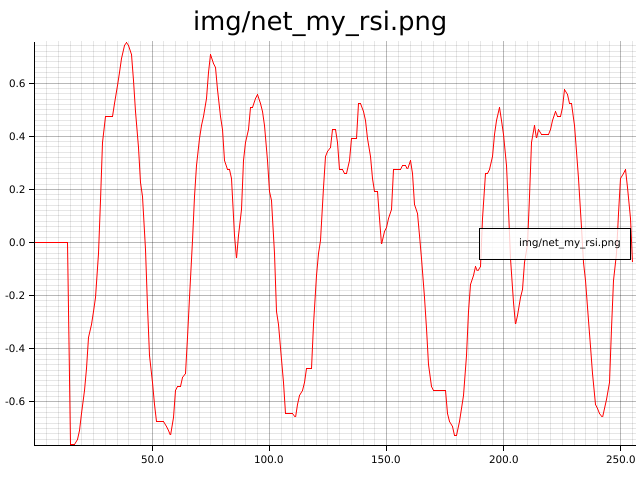
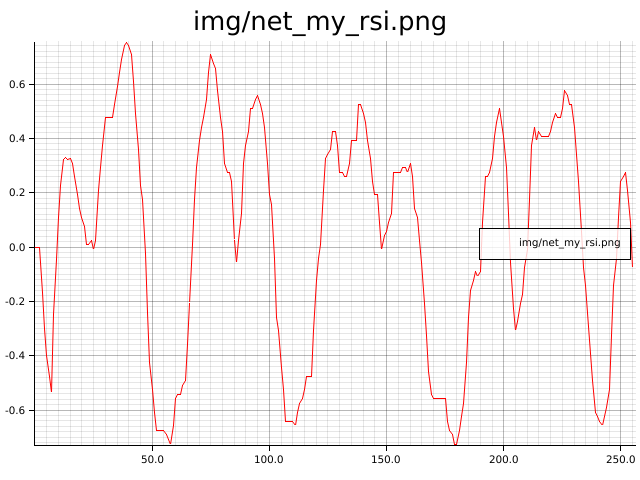
added WelfordOnlineSliding for a sliding window estimation of std_dev where possible, output the indicator values as soon as possible rather than waiting until window is completely filled

Changed region(s): [[0.0, 0.125, 1.0, 0.9375]]

diff --git a/src/welford_online_sliding.rs b/src/welford_online_sliding.rs
@@ -1,0 +1,118 @@
+use crate::sliding_window::View;
+use crate::Echo;
+use std::collections::VecDeque;
+
+/// Welford online algorithm for computing mean and variance on-the-fly
+/// over a sliding window
+#[derive(Clone)]
+pub struct WelfordOnlineSliding {
+    view: Box<dyn View>,
+    window_len: usize,
+    q_vals: VecDeque<f64>,
+    mean: f64,
+    s: f64,
+    n: usize,
+}
+
+impl WelfordOnlineSliding {
+    /// Create a WelfordOnline struct with a chained View
+    pub fn new(view: Box<dyn View>, window_len: usize) -> Self {
+        Self {
+            view,
+            window_len,
+            q_vals: VecDeque::new(),
+            mean: 0.0,
+            s: 0.0,
+            n: 0,
+        }
+    }
+
+    /// Create a new WelfordOnline Sliding Window without a chained View
+    pub fn new_final(window_len: usize) -> Self {
+        Self::new(Box::new(Echo::new()), window_len)
+    }
+
+    /// Return the variance of the sliding window
+    pub fn variance(&self) -> f64 {
+        return if self.n > 1 {
+            self.s / (self.n as f64 - 1.0)
+        } else {
+            0.0
+        };
+    }
+
+    /// Return the mean of the sliding window
+    pub fn mean(&self) -> f64 {
+        self.mean
+    }
+}
+
+impl View for WelfordOnlineSliding {
+    fn update(&mut self, val: f64) {
+        self.view.update(val);
+        let val = self.view.last();
+
+        if self.q_vals.len() >= self.window_len {
+            let old_val: f64 = self.q_vals.pop_front().unwrap();
+            // remove old value from estimation
+            let new_mean = (self.n as f64 * self.mean - old_val) / (self.n as f64 - 1.0);
+            self.s -= (old_val - self.mean) * (old_val - new_mean);
+            self.mean = new_mean;
+            self.n -= 1;
+        }
+        self.q_vals.push_back(val);
+
+        self.n += 1;
+        let old_mean = self.mean;
+        self.mean += (val - old_mean) / self.n as f64;
+        self.s += (val - old_mean) * (val - self.mean);
+    }
+
+    fn last(&self) -> f64 {
+        let std_dev = self.variance().sqrt();
+        std_dev
+    }
+}
+
+#[cfg(test)]
+mod tests {
+    use super::*;
+    use crate::test_data::TEST_DATA;
+    use round::round;
+    use crate::plot::plot_values;
+
+    #[test]
+    fn welford_online_sliding() {
+        let mut wo = WelfordOnlineSliding::new_final(TEST_DATA.len());
+        for v in &TEST_DATA {
+            wo.update(*v);
+            assert!(!wo.last().is_nan());
+        }
+        let w_std_dev = wo.last();
+
+        // compute the standard deviation with the regular formula
+        let avg: f64 = TEST_DATA.iter().sum::<f64>() / TEST_DATA.len() as f64;
+        let std_dev: f64 = ((1.0 / (TEST_DATA.len() as f64 - 1.0))
+            * TEST_DATA.iter().map(|v| (v - avg).powi(2)).sum::<f64>())
+            .sqrt();
+
+        assert_eq!(round(w_std_dev, 4), round(std_dev, 4));
+    }
+
+    #[test]
+    fn welford_online_sliding_2() {
+        // TODO:
+    }
+
+    #[test]
+    fn welford_online_sliding_plot() {
+        let mut wo = WelfordOnlineSliding::new_final(16);
+        let mut out: Vec<f64> = vec![];
+        for v in &TEST_DATA {
+            wo.update(*v);
+            out.push(wo.last());
+        }
+        let filename = "img/welford_online_sliding.png";
+        plot_values(out, filename).unwrap();
+    }
+}

diff --git a/src/net.rs b/src/net.rs
@@ -38,26 +38,30 @@ impl View for NET {
         }
         self.q_vals.push_back(val);
 
-        if self.q_vals.len() == self.window_len {
-            let mut x: Vec<f64> = vec![0.0; self.window_len];
-            let mut y: Vec<f64> = vec![0.0; self.window_len];
-            for count in 1..self.window_len {
-                x[count] = *self.q_vals.get(self.window_len - count).unwrap();
-                y[count] = - (count as f64);
-            }
-
-            let mut num: f64 = 0.0;
-            for count in 2..self.window_len {
-                for k in 1..count - 1 {
-                    num -= (x[count] - x[k]).signum();
-                }
-            }
-
-            let denom: f64 = 0.5 * self.window_len as f64 * (self.window_len as f64 - 1.0);
-            self.out = num / denom;
-        } else {
-            self.out = val;
+        // if self.q_vals.len() == self.window_len {
+        //
+        // } else {
+        //     self.out = val;
+        // }
+        if self.q_vals.len() < 2 {
+            return
         }
+        let mut x: Vec<f64> = vec![0.0; self.q_vals.len()];
+        let mut y: Vec<f64> = vec![0.0; self.q_vals.len()];
+        for count in 1..self.q_vals.len() {
+            x[count] = *self.q_vals.get(self.q_vals.len() - count).unwrap();
+            y[count] = - (count as f64);
+        }
+
+        let mut num: f64 = 0.0;
+        for count in 2..self.q_vals.len() {
+            for k in 1..count - 1 {
+                num -= (x[count] - x[k]).signum();
+            }
+        }
+
+        let denom: f64 = 0.5 * self.q_vals.len() as f64 * (self.q_vals.len() as f64 - 1.0);
+        self.out = num / denom;
     }
 
     fn last(&self) -> f64 {

diff --git a/src/center_of_gravity.rs b/src/center_of_gravity.rs
@@ -42,23 +42,19 @@ impl View for CenterOfGravity {
         }
         self.q_vals.push_back(val);
 
-        if self.q_vals.len() < self.window_len {
-            self.out = 0.0;
+        let mut denom: f64 = 0.0;
+        let mut num: f64 = 0.0;
+        let q_len = self.q_vals.len();
+        for i in 0..q_len {
+            let weight = q_len - i;
+            let val_i = self.q_vals.get(i).unwrap();
+            num += weight as f64 * val_i;
+            denom += *val_i;
+        }
+        if denom != 0.0 {
+            self.out = -num / denom + (self.q_vals.len() as f64 + 1.0) / 2.0
         } else {
-            let mut denom: f64 = 0.0;
-            let mut num: f64 = 0.0;
-            let q_len = self.q_vals.len();
-            for i in 0..q_len {
-                let weight = q_len - i;
-                let val_i = self.q_vals.get(i).unwrap();
-                num += weight as f64 * val_i;
-                denom += *val_i;
-            }
-            if denom != 0.0 {
-                self.out = -num / denom + (self.window_len as f64 + 1.0) / 2.0
-            } else {
-                self.out = 0.0;
-            }
+            self.out = 0.0;
         }
     }
     fn last(&self) -> f64 {

diff --git a/src/vsct.rs b/src/vsct.rs
@@ -1,11 +1,10 @@
-use crate::{Echo, View, WelfordOnline};
+use crate::{Echo, View, WelfordOnlineSliding};
 
 /// Variance Stabilizing Centering Transform Sliding Window
 #[derive(Clone)]
 pub struct VSCT {
     view: Box<dyn View>,
-    window_len: usize,
-    welford_online: WelfordOnline,
+    welford_online: WelfordOnlineSliding,
     last: f64,
 }
 
@@ -15,8 +14,7 @@ impl VSCT {
     pub fn new(view: Box<dyn View>, window_len: usize) -> Self {
         VSCT {
             view,
-            window_len,
-            welford_online: WelfordOnline::new_final(),
+            welford_online: WelfordOnlineSliding::new_final(window_len),
             last: 0.0,
         }
     }
@@ -30,9 +28,10 @@ impl VSCT {
 impl View for VSCT {
     fn update(&mut self, val: f64) {
         self.view.update(val);
-        let view_last = self.view.last();
-        self.welford_online.update(view_last);
-        self.last = view_last;
+        let val = self.view.last();
+
+        self.welford_online.update(val);
+        self.last = val;
     }
 
     fn last(&self) -> f64 {

diff --git a/src/re_flex.rs b/src/re_flex.rs
@@ -43,7 +43,7 @@ impl View for ReFlex {
         if self.q_vals.len() == 0 {
             self.last_val = val;
         }
-        if self.q_vals.len() > self.window_len {
+        if self.q_vals.len() >= self.window_len {
             self.q_vals.pop_front();
         }
         let a1 = 8.88442402435 / self.window_len as f64;
@@ -79,12 +79,8 @@ impl View for ReFlex {
         // normalize in termsn of standard deviation
         let ms0 = 0.04 * d_sum.powi(2) + 0.96 * self.last_m;
         self.last_m = ms0;
-        if self.q_vals.len() < self.window_len {
-            self.out = 0.0;
-        } else {
-            if ms0 > 0.0 {
-                self.out = d_sum / ms0.sqrt();
-            }
+        if ms0 > 0.0 {
+            self.out = d_sum / ms0.sqrt();
         }
     }
 

diff --git a/src/lib.rs b/src/lib.rs
@@ -19,11 +19,11 @@ mod rsi;
 mod sliding_window;
 mod sma;
 mod ema;
-mod std_dev;
 mod trend_flex;
 mod variance_stabilizing_transformation;
 mod vsct;
 mod welford_online;
+mod welford_online_sliding;
 mod my_rsi;
 mod net;
 mod polarized_fractal_efficiency;
@@ -49,11 +49,11 @@ pub use sliding_window::SlidingWindow;
 pub use sliding_window::View;
 pub use sma::SMA;
 pub use ema::EMA;
-pub use std_dev::StdDev;
 pub use trend_flex::TrendFlex;
 pub use variance_stabilizing_transformation::VST;
 pub use vsct::VSCT;
 pub use welford_online::WelfordOnline;
+pub use welford_online_sliding::WelfordOnlineSliding;
 pub use my_rsi::MyRSI;
 pub use net::NET;
 pub use polarized_fractal_efficiency::PolarizedFractalEfficiency;

diff --git a/src/my_rsi.rs b/src/my_rsi.rs
@@ -64,13 +64,9 @@ impl View for MyRSI {
         }
         self.last_val = val;
 
-        if self.q_vals.len() == self.window_len {
-            // only output value if window length is satisfied with enough values
-            if self.cu + self.cd != 0.0 {
-                self.out = (self.cu - self.cd) / (self.cu + self.cd);
-            }
-        } else {
-            self.out = 0.0;
+        // only output value if window length is satisfied with enough values
+        if self.cu + self.cd != 0.0 {
+            self.out = (self.cu - self.cd) / (self.cu + self.cd);
         }
 
     }

diff --git a/src/trend_flex.rs b/src/trend_flex.rs
@@ -77,14 +77,10 @@ impl View for TrendFlex {
         // normalize in terms of standard deviation;
         let ms0 = 0.04 * d_sum.powi(2) + 0.96 * self.last_m;
         self.last_m = ms0;
-        if self.q_filts.len() < self.window_len {
-            self.out = 0.0;
+        if ms0 > 0.0 {
+            self.out = d_sum / ms0.sqrt();
         } else {
-            if ms0 > 0.0 {
-                self.out = d_sum / ms0.sqrt();
-            } else {
-                self.out = 0.0;
-            }
+            self.out = 0.0;
         }
     }
     fn last(&self) -> f64 {

diff --git a/src/alma.rs b/src/alma.rs
@@ -72,12 +72,8 @@ impl View for ALMA {
         self.q_vals.push_back(val);
         self.q_wtd.push_back(wtd);
 
-        if self.q_vals.len() < self.window_len {
-            self.q_out.push_back(val);
-        } else {
-            let ala = self.wtd_sum / self.cum_wt;
-            self.q_out.push_back(ala);
-        }
+        let ala = self.wtd_sum / self.cum_wt;
+        self.q_out.push_back(ala);
     }
 
     fn last(&self) -> f64 {

diff --git a/src/ehlers_fisher_transform.rs b/src/ehlers_fisher_transform.rs
@@ -86,7 +86,7 @@ impl View for EhlersFisherTransform {
         } else if smoothed < -0.99 {
             smoothed = -0.99;
         }
-        if self.q_out.len() < self.window_len {
+        if self.q_out.len() == 0 {
             // do not insert values when there are not enough values yet
             self.q_out.push_back(0.0);
             return

diff --git a/src/variance_stabilizing_transformation.rs b/src/variance_stabilizing_transformation.rs
@@ -37,7 +37,7 @@ impl View for VST {
     fn last(&self) -> f64 {
         let std_dev = self.welford_online.last();
         if std_dev == 0.0 {
-            return 0.0;
+            return self.last;
         }
         self.last / std_dev
     }

diff --git a/README.md b/README.md
@@ -164,7 +164,8 @@ A View defines the function which processes value updates. They currently includ
     * ALMA (Arnaux Legoux Moving Average)
     * SMA (Simple Moving Average)
     * EMA (Exponential Moving Average)
-    
+* Standard deviation sliding window estimation using WelfordOnlineSliding
+
 * Entropy (acts on a bit stream, thus does not impl View trait)
 
 
@@ -276,9 +277,9 @@ Note that each run uses common test data from test_data.rs for consistency.
     width=300px></img>
 </a>
 
-<a href="https://github.com/MathisWellmann/sliding_features-rs/blob/master/src/std_dev.rs"> 
+<a href="https://github.com/MathisWellmann/sliding_features-rs/blob/master/src/welford_online_sliding.rs"> 
     <img style="display: inline!important" 
-    src="img/std_dev.png" 
+    src="img/welford_online_sliding.png" 
     width=300px></img>
 </a>
 
